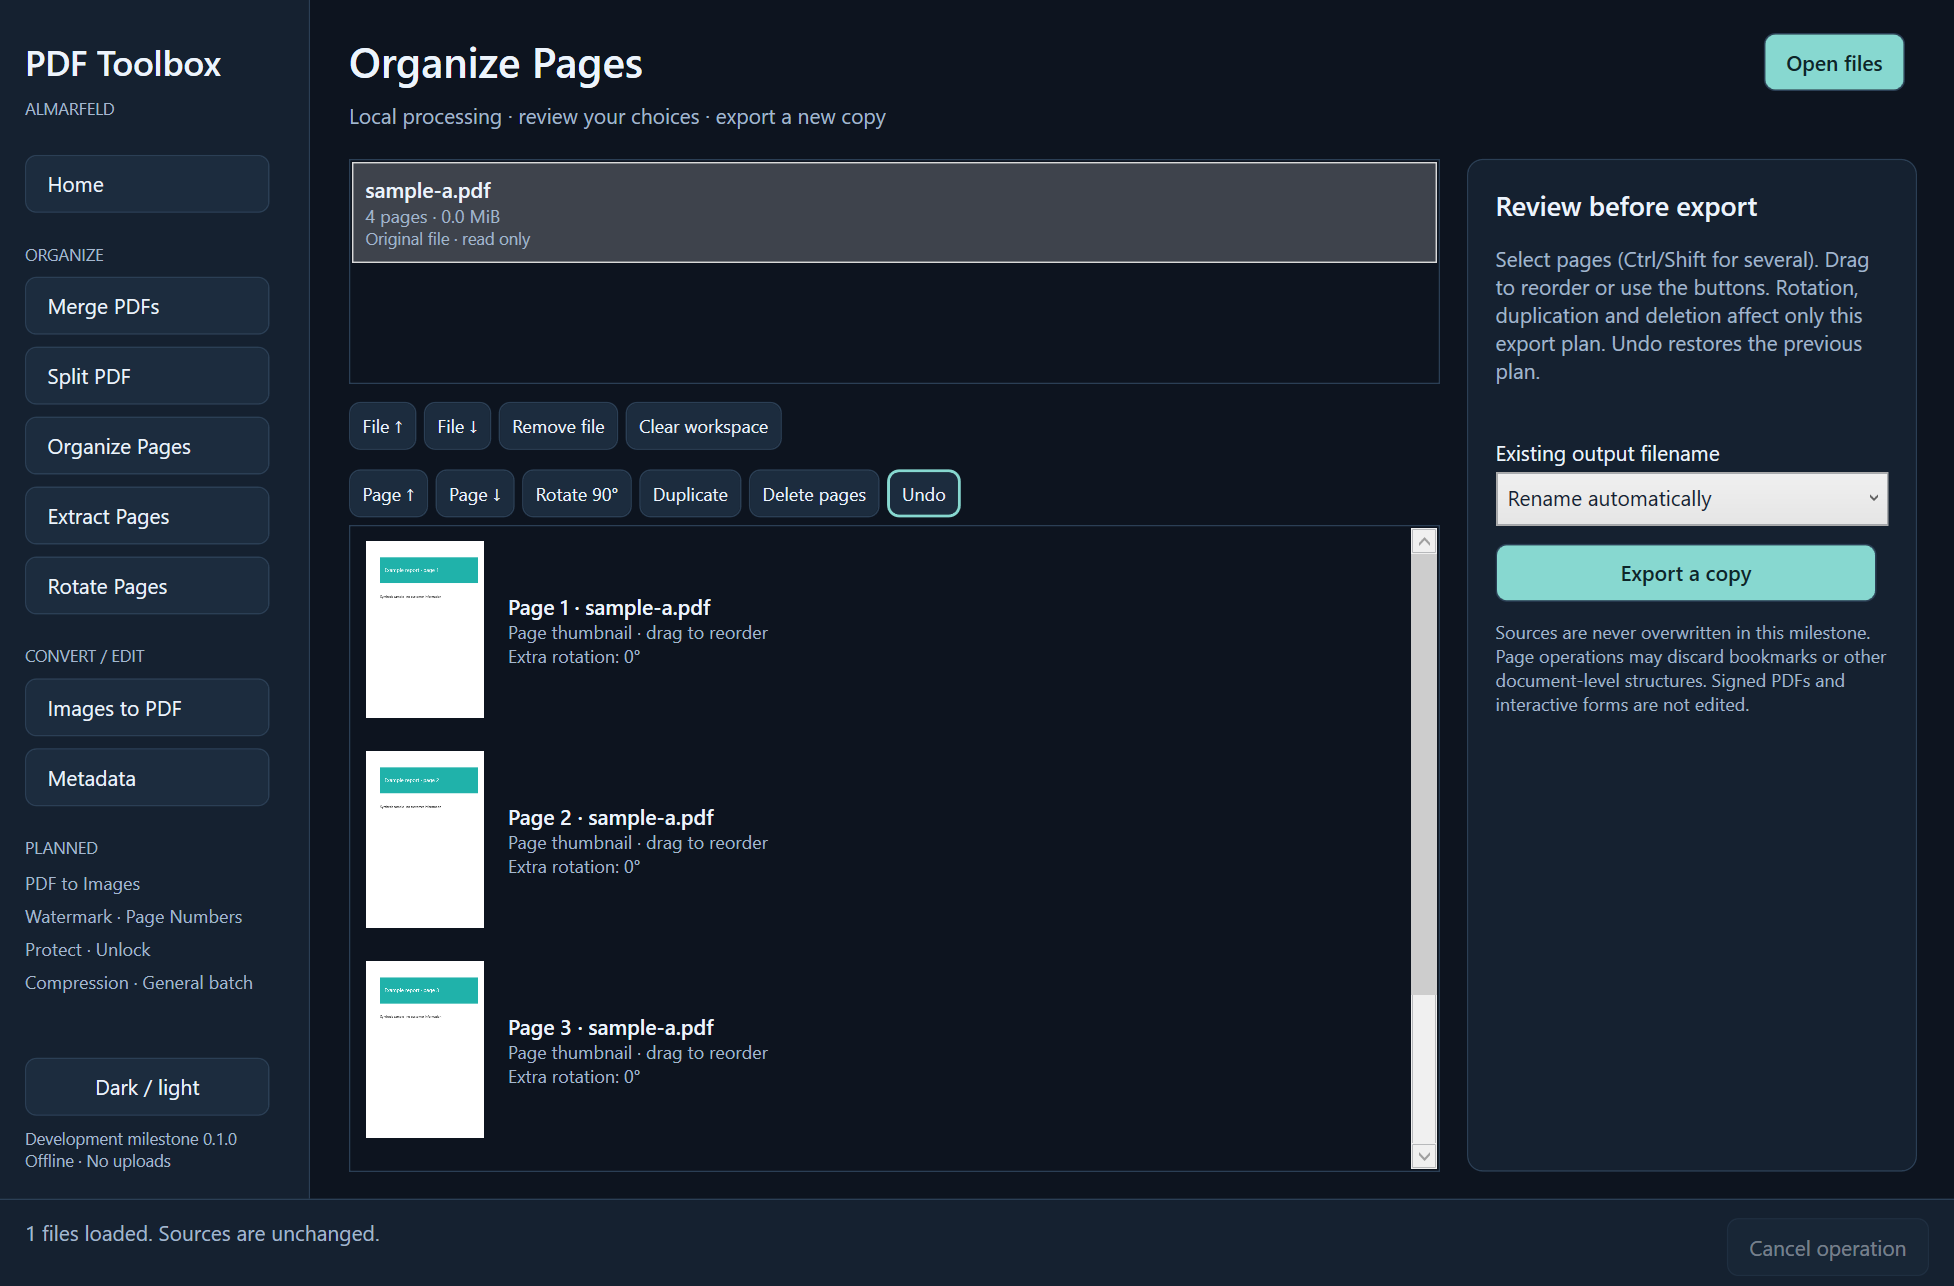
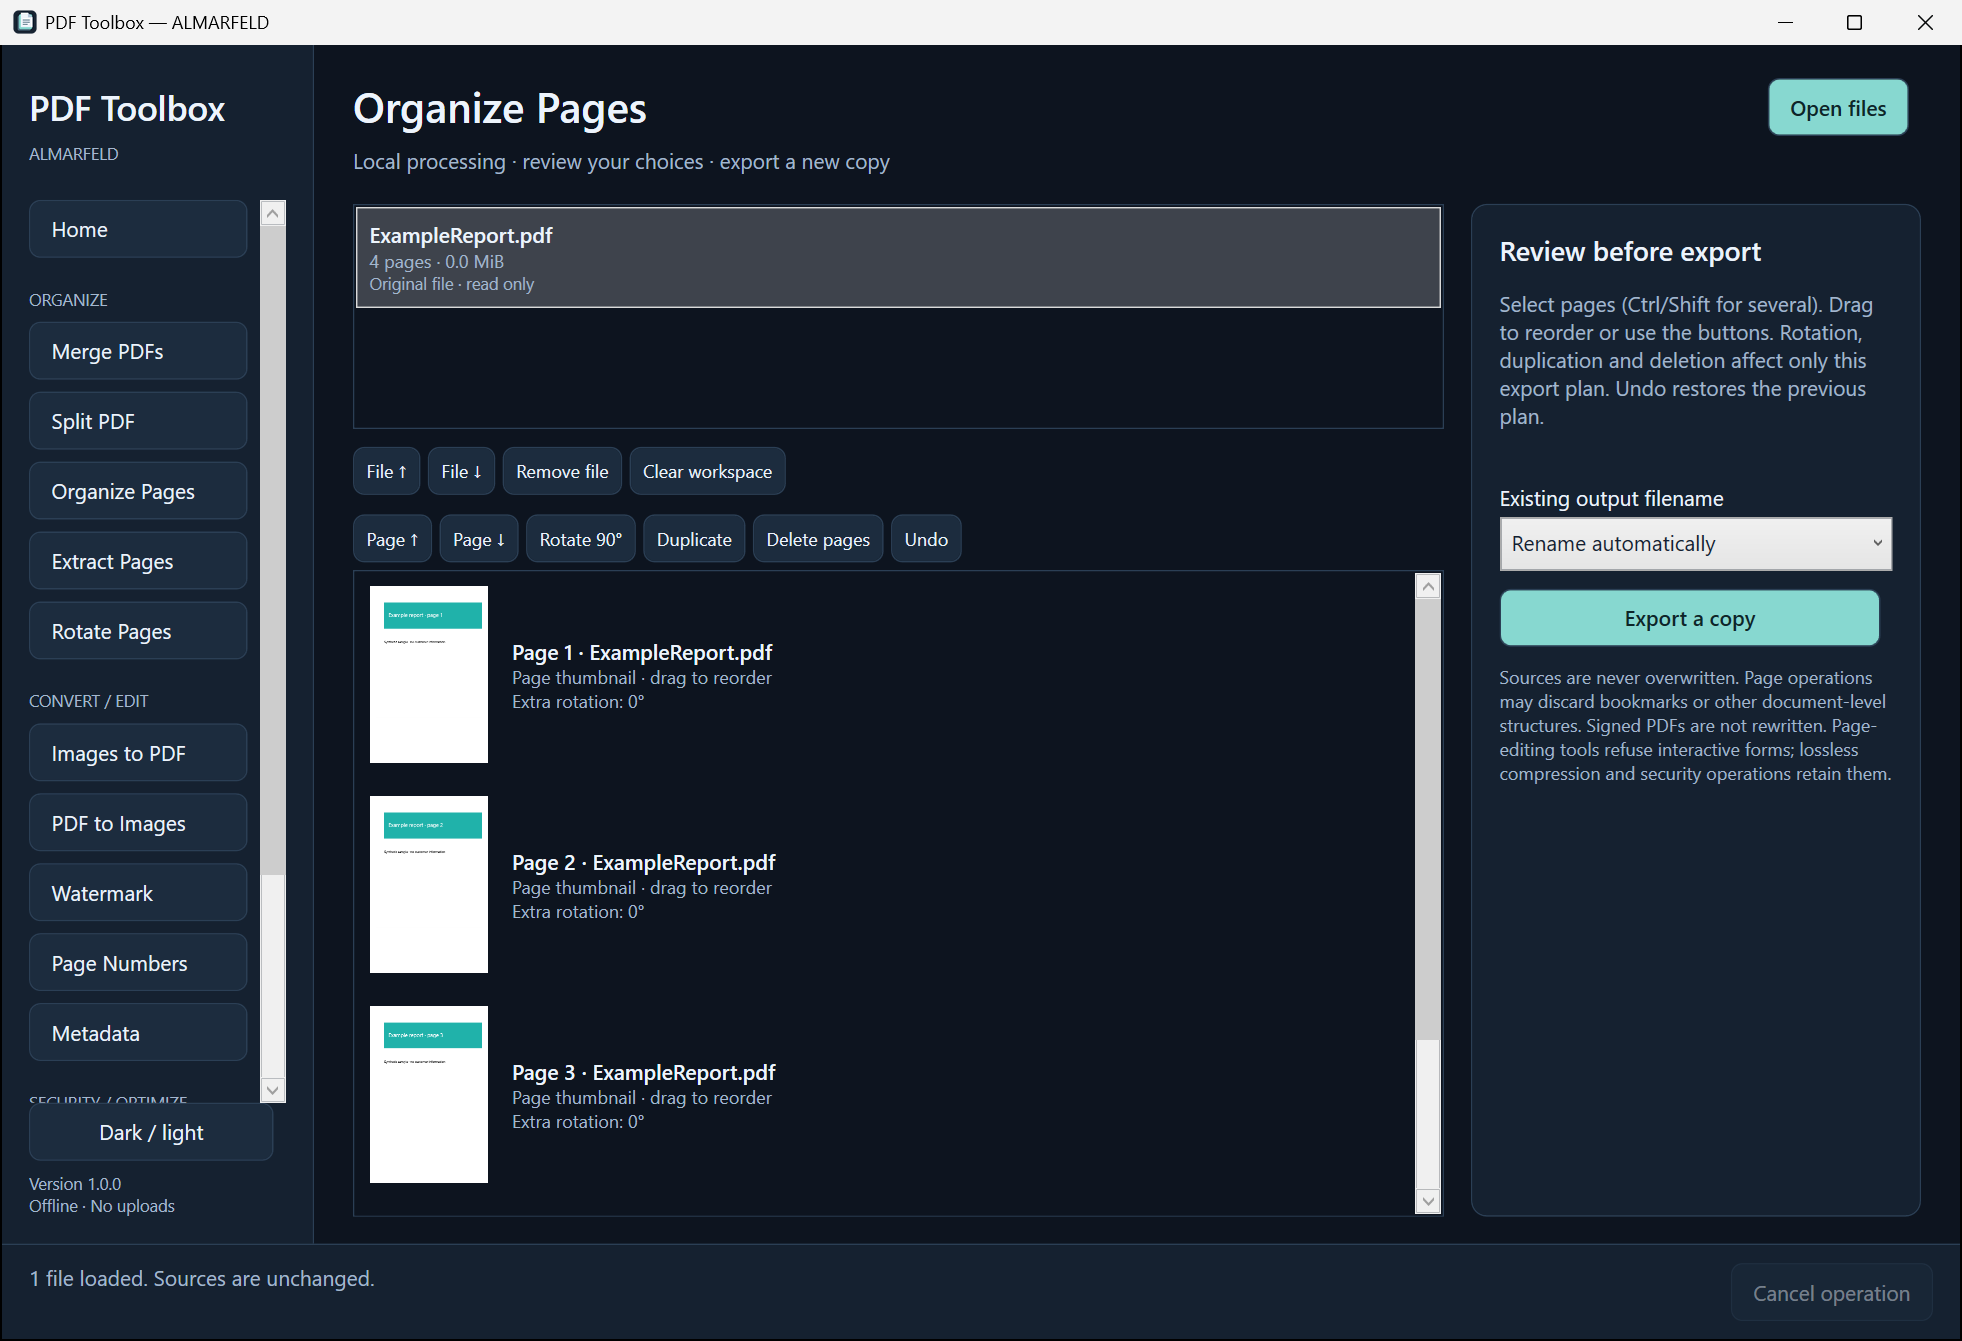
Prepare PDF Toolbox v1.0.0 portable release

diff --git a/src/PDFToolbox.Windows/MainWindow.xaml b/src/PDFToolbox.Windows/MainWindow.xaml
@@ -7,7 +7,7 @@
   <Border Background="{DynamicResource Surface}" Padding="18" BorderBrush="{DynamicResource Line}" BorderThickness="0,0,1,0">
    <DockPanel>
     <StackPanel DockPanel.Dock="Top" Margin="0,8,0,24"><TextBlock Text="PDF Toolbox" FontSize="23" FontWeight="SemiBold"/><TextBlock Text="ALMARFELD" Style="{StaticResource MutedText}" Margin="0,8,0,0" FontSize="11"/></StackPanel>
-    <StackPanel DockPanel.Dock="Bottom"><Button Content="Dark / light" Click="ThemeClick" AutomationProperties.Name="Switch color theme"/><TextBlock Text="Development milestone 0.1.0&#10;Offline · No uploads" Style="{StaticResource MutedText}" FontSize="11"/></StackPanel>
+    <StackPanel DockPanel.Dock="Bottom"><Button Content="Dark / light" Click="ThemeClick" AutomationProperties.Name="Switch color theme"/><TextBlock Text="Version 1.0.0&#10;Offline · No uploads" Style="{StaticResource MutedText}" FontSize="11"/></StackPanel>
     <ScrollViewer VerticalScrollBarVisibility="Auto"><StackPanel IsEnabled="{Binding Idle}">
      <Button Content="Home" Tag="Home" Click="ToolClick" HorizontalContentAlignment="Left"/>
      <TextBlock Text="ORGANIZE" Style="{StaticResource MutedText}" FontSize="11" Margin="0,12,0,8"/>
@@ -76,7 +76,7 @@
       <StackPanel x:Name="MetadataPanel" Visibility="Collapsed"><TextBlock Text="Title"/><TextBox x:Name="TitleBox" AutomationProperties.Name="Document title"/><TextBlock Text="Author"/><TextBox x:Name="AuthorBox" AutomationProperties.Name="Document author"/><TextBlock Text="Subject"/><TextBox x:Name="SubjectBox" AutomationProperties.Name="Document subject"/><TextBlock Text="Keywords"/><TextBox x:Name="KeywordsBox" AutomationProperties.Name="Document keywords"/><TextBlock Text="Creator"/><TextBox x:Name="CreatorBox" AutomationProperties.Name="Document creator"/><TextBlock Text="Producer (library-controlled on save)"/><TextBox x:Name="ProducerBox" AutomationProperties.Name="Document producer" IsReadOnly="True"/><Button Content="Clear editable fields" Click="ClearMetadata"/><TextBlock Text="Document information only. Existing XMP/content may retain information. This is not secure sanitization or an anonymity guarantee." Style="{StaticResource MutedText}" FontSize="12"/></StackPanel>
       <TextBlock Text="Existing output filename" Margin="0,20,0,0"/><ComboBox x:Name="CollisionBox" AutomationProperties.Name="Output filename collision policy" SelectedIndex="0"><ComboBoxItem Content="Rename automatically"/><ComboBoxItem Content="Cancel / refuse overwrite"/><ComboBoxItem Content="Replace after confirmation"/></ComboBox>
       <Button Content="Export a copy" Click="ExportClick" Style="{StaticResource Primary}" AutomationProperties.Name="Export a copy"/>
-      <TextBlock Text="Sources are never overwritten in this milestone. Page operations may discard bookmarks or other document-level structures. Signed PDFs are not rewritten. Page-editing tools refuse interactive forms; lossless compression and security operations retain them." Style="{StaticResource MutedText}" FontSize="12" Margin="0,4,0,0"/>
+      <TextBlock Text="Sources are never overwritten. Page operations may discard bookmarks or other document-level structures. Signed PDFs are not rewritten. Page-editing tools refuse interactive forms; lossless compression and security operations retain them." Style="{StaticResource MutedText}" FontSize="12" Margin="0,4,0,0"/>
      </StackPanel></ScrollViewer>
     </Border>
    </Grid>

diff --git a/docs/testing.md b/docs/testing.md
@@ -4,7 +4,7 @@ Run `dotnet test PDFToolboxWindows.sln -c Release` on Windows. Tests construct s
 
 Coverage includes ranges, merge, all split modes, organization/deletion/duplication, extraction, rotation, image import, metadata, encrypted/owner-only inputs, invalid passwords/files, empty inputs, Unicode/long paths, locked destinations, filename collisions, explicit replace, cancellation, partial split failures, staged-file cleanup and real Windows PDF thumbnail rendering/cache bounds.
 
-The first milestone did not implement watermark, page numbers or PDF-to-images exports. The current milestone adds those tools and the regression coverage below. Tests do not establish PDF security certification, advanced document preservation or rendering equivalence for arbitrary PDFs.
+The v1.0.0 toolset includes page operations, image conversion, overlays, password-based protection/unlocking and lossless compression. The dated milestone records below describe earlier builds; the final v1.0.0 validation section records the current checks. Tests do not establish PDF security certification, advanced document preservation or rendering equivalence for arbitrary PDFs.
 
 Windows GUI validation must use the actual self-contained build from a fresh folder with spaces: Open/Save/Cancel, export/reopen, source hash, empty/error states, organization/undo, native drag/drop, resizing, keyboard navigation, taskbar/Alt+Tab icon and practical display scales. Any untested scale/environment must be reported rather than inferred from an automated engine test.
 
@@ -57,3 +57,17 @@ The real screenshot in `docs/screenshots/organize.png` is a crop of the native a
[1 lines of base64/hex data omitted]
 - **Real OS scaling**, changed through Windows Display Settings and independently checked with `GetDpiForWindow`: **100% → 96 DPI**, **125% → 120 DPI**, **200% → 192 DPI**. The loaded workspace/thumbnail/export UI remained usable; the 12 raster cases also passed at 200%. The original **150% / 144 DPI** was restored. These are actual scaling checks, not equivalent window resizing; the entire workflow was not repeated at every scaling level.
 - **Not independently verified:** Windows 10 (no Windows 10 VM available; the installed Sandbox uses the host Windows 11 family), full screen-reader audit, exhaustive advanced-form/annotation real-world corpus, real disk-full/access-denied fault injection, and new Explorer-to-app drag/drop in this milestone. Existing drag/drop code is unchanged; previous coverage is retained. General batch/OCR/PDF text editing/image downsampling remain unavailable. No website, tag, release or WinGet changes were made.
+
+## v1.0.0 release validation — 2026-10-12
+
+- Restore, Debug/Release builds and self-contained win-x64 publishing passed with zero compiler warnings/errors. All **119 tests passed**, zero failed/skipped. The dependency audit reported no known vulnerable packages.
+- The exact portable ZIP launched and exported a four-page PDF in a fresh Windows 11 Sandbox with networking, clipboard and device redirection disabled. Only the ZIP, synthetic input and a writable output folder were mapped; no source or SDK directory was available. The output was independently reopened, rendered and compared with the source page content. No separate .NET or WebView2 installation was needed.
+- The extracted 1.0.0 executable passed real GUI Open/Save As/Cancel, dark/light themes, Explorer drag/drop into an existing queue, and actual taskbar/Alt+Tab icon inspection. The window identifies Version 1.0.0.
+- GUI operations covered Merge (8 pages), Split (two 2-page parts), Organize/reorder/duplicate/delete/Undo (5-page result), Extract (pages 1 and 3), Rotate (90 degrees), PNG/JPEG to PDF (2 pages), Metadata, text/image Watermark, Page Numbers, Protect, incorrect-password rejection, correct-password reopen, Unlock and lossless Compress. All 14 generated PDFs were independently reopened and rendered with expected counts; page order/content, rotation, title, AESV2 and encryption state were checked where relevant. Compression measured 30,194 → 29,285 bytes (909 bytes / 3.01%). Original input SHA-256 values remained unchanged.
+- Actual 300-DPI PNG and 600-DPI JPEG GUI outputs decoded successfully with correct stored DPI. Cancelling a 120-page 600-DPI JPEG export retained 73 complete decoded images, reported 47 skipped and left no temporary files. The GUI remained responsive.
+- The complete test-host run observed 258 MiB cumulative peak working set at the 300-DPI case and 356 MiB at the 600-DPI/120-page case (80.3 seconds for that case); the image-heavy and bounded-cache/repeated-preview checks passed. The combined real GUI session peaked at 425 MiB working set; live samples during the cancellation export were at most 354 MiB working set / 533 MiB private memory. These include process history and allocation/GC behavior and are not a universal memory guarantee or a controlled cross-version comparison.
+- The same ZIP launched with a non-project working directory from a 234-character executable path containing spaces and Unicode. A 237-character input path opened and a 246-character output path exported successfully; the four-page result reopened and the input hash was unchanged.
+- Application TCP/UDP endpoint checks found none during representative use; offline Sandbox export succeeded. Source audit found no networking, account, analytics, upload, ad or automatic update/download code. This verifies local operation rather than every possible Windows background activity.
+- Portable validation checks runtime/license/instruction files, exact executable version/product/publisher metadata, expected unsigned status and absence of source/tests/PDB/log/test-PDF/image payloads or private local data in application binaries. Windows Defender custom scan reported no detected threat in the validated build.
+- Four native captures from the actual Release executable are stored under `docs/screenshots/`: home, organize, watermark and compress. They use synthetic documents and contain no cursor, reconstructed UI or personal filesystem paths.
+- **Not independently verified:** Windows 10, a complete screen-reader audit, exhaustive arbitrary advanced-PDF preservation and real disk-full fault injection. OCR, general batch processing and direct PDF text editing are unavailable. Windows binaries remain unsigned.

diff --git a/README.md b/README.md
@@ -2,9 +2,11 @@
 
 **PDF tools that stay on your device**
 
-An independent ALMARFELD Windows desktop project. Open PDFs, review page choices and export a new copy, entirely on your computer. This is a desktop development build, not a published release.
+An independent ALMARFELD Windows desktop project. Open PDFs, review page choices and export a new copy, entirely on your computer. PDF Toolbox v1.0.0 runs from a self-contained portable ZIP.
 
-![Real Windows development build with synthetic pages](docs/screenshots/organize.png)
+![PDF Toolbox for Windows with synthetic pages](docs/screenshots/organize.png)
+
+Actual Release screenshots: [Home](docs/screenshots/home.png) · [Watermark preview](docs/screenshots/watermark.png) · [Lossless compression](docs/screenshots/compress.png).
 
 ## Working tools
 
@@ -34,9 +36,9 @@ Watermark and numbering are added as PDF content; the whole document is not rast
 
 ## Requirements and first run
 
-Windows 10 **version 2004 or later**, or Windows 11, x64. The self-contained development build includes the .NET 8 runtime. It does **not** require WebView2. Windows supplies the PDF preview and image-export renderer.
+Windows 10 **version 2004 or later**, or Windows 11, x64. The self-contained portable build includes the .NET 8 runtime. It does **not** require WebView2. Windows supplies the PDF preview and image-export renderer.
 
-Extract the entire build folder and keep its adjacent files together. Run `PDFToolbox.exe`. There is no installer, automatic updater or automatic dependency download. The Windows binary is not Authenticode signed; Windows may show a reputation warning. Do not disable Windows security.
+Extract the entire ZIP and keep its adjacent files together. Run `PDFToolbox.exe`. There is no installer, automatic updater or automatic dependency download. The Windows binary is not Authenticode signed; Windows may show a reputation warning. Do not disable Windows security.
 
 Use Open files / Ctrl+O, or drop supported files onto the window. Select a tool, review options and choose Export copy / Ctrl+S. Organize changes affect only the export plan. Recent files and passwords remain session-only; closing the application clears them.
 
@@ -64,9 +66,10 @@ Install a .NET SDK supporting .NET 8 and Windows desktop/WinRT targeting (CI use
 dotnet restore PDFToolboxWindows.sln --locked-mode
 dotnet build PDFToolboxWindows.sln -c Release --no-restore
 dotnet test PDFToolboxWindows.sln -c Release --no-build
-dotnet publish src/PDFToolbox.Windows -c Release --no-restore -o artifacts/windows/PDFToolbox
+./tools/publish.ps1
+./tools/Validate-Package.ps1
 ```
 
-Do not publish development artifacts as a release without completing the release checks. The screenshot above is captured from the actual Windows application using synthetic input, with no cursor or personal paths. Architecture and validation details: [architecture](docs/architecture.md), [testing](docs/testing.md), [dependencies/licenses](docs/pdf-libraries.md).
+Release validation and environment limitations are recorded in [testing](docs/testing.md). The screenshot above is captured from the actual Windows application using synthetic input, with no cursor or personal paths. Architecture and validation details: [architecture](docs/architecture.md), [testing](docs/testing.md), [dependencies/licenses](docs/pdf-libraries.md).
 
 MIT. [ALMARFELD](https://almarfeld.com/) · [Support](https://almarfeld.com/support/)

diff --git a/SECURITY.md b/SECURITY.md
@@ -2,8 +2,8 @@
 
 Report vulnerabilities privately to security@almarfeld.com. Do not attach confidential PDFs, passwords or personal paths to a public issue. Provide a synthetic reproduction where possible.
 
-The first desktop milestone processes files locally, with no network services. It is not a sandbox, malware scanner, signature validator, PDF sanitizer or document anonymizer. Treat unknown files cautiously. PDF libraries may reject valid advanced features or consume significant resources for malformed input.
+PDF Toolbox processes files locally, with no network services. It is not a sandbox, malware scanner, signature validator, PDF sanitizer or document anonymizer. Treat unknown files cautiously. PDF libraries may reject valid advanced features or consume significant resources for malformed input.
 
-Editing encrypted PDFs, detected signatures and interactive forms is refused. This does not certify a document as unsigned or safe. Page import can change document-level features. Always retain and compare the original. The binary is not Authenticode signed.
+Detected signatures are refused for rewriting; this is not cryptographic signature verification. Encrypted PDFs require explicit password-based Unlock before other editing/export tools can operate on a copy. Restricted documents require owner credentials. Page-editing tools refuse interactive forms; security operations and lossless compression retain the existing document tree, subject to the documented library limitations. Page import can change document-level features. Always retain and compare the original. The binary is not Authenticode signed.
 
-Only the current development branch is maintained; no public Windows release exists yet.
+Security fixes target the current 1.0.x product line. Protect uses AES-128/PDF 1.6, not identity authentication; passwords are never logged or persisted by the application. Neither metadata editing nor compression is secure sanitization. Immutable .NET strings and Windows memory management do not guarantee physical password erasure.

diff --git a/RELEASE_NOTES.md b/RELEASE_NOTES.md
@@ -1,0 +1,13 @@
+# PDF Toolbox v1.0.0
+
+PDF Toolbox is a local Windows x64 utility, distributed as a self-contained portable ZIP. Extract the entire package and run PDFToolbox.exe; no separate .NET runtime or WebView2 installation is required.
+
+- Merge, split, organize/reorder/duplicate/delete/undo, extract and rotate PDF pages.
+- Convert supported images to PDF and PDF pages to PNG/JPEG.
+- Edit document information in a copy; add text/image watermarks and page numbers.
+- Protect a copy with AES-128/PDF 1.6; Unlock with valid credentials (owner credentials for restricted documents).
+- Lossless PDF stream compression reports actual byte counts and saves no result when it is not smaller. Already optimized or scanned PDFs may not shrink.
+
+Processing stays on the user's device, without accounts, uploads, telemetry, ads, automatic updates or downloads. Sources are not overwritten. Keep originals and inspect exported copies; advanced PDF preservation is not universally guaranteed. Signed PDFs are not rewritten. OCR, general batch processing and direct PDF text editing are unavailable.
+
+Target: Windows 10 version 2004 or later / Windows 11 x64. Windows 11 was tested; Windows 10 has not been independently tested. The executable is not Authenticode signed; Windows may show a reputation/security warning. Obtain it only from the official GitHub release and optionally verify the published SHA-256. Do not disable Windows security.
